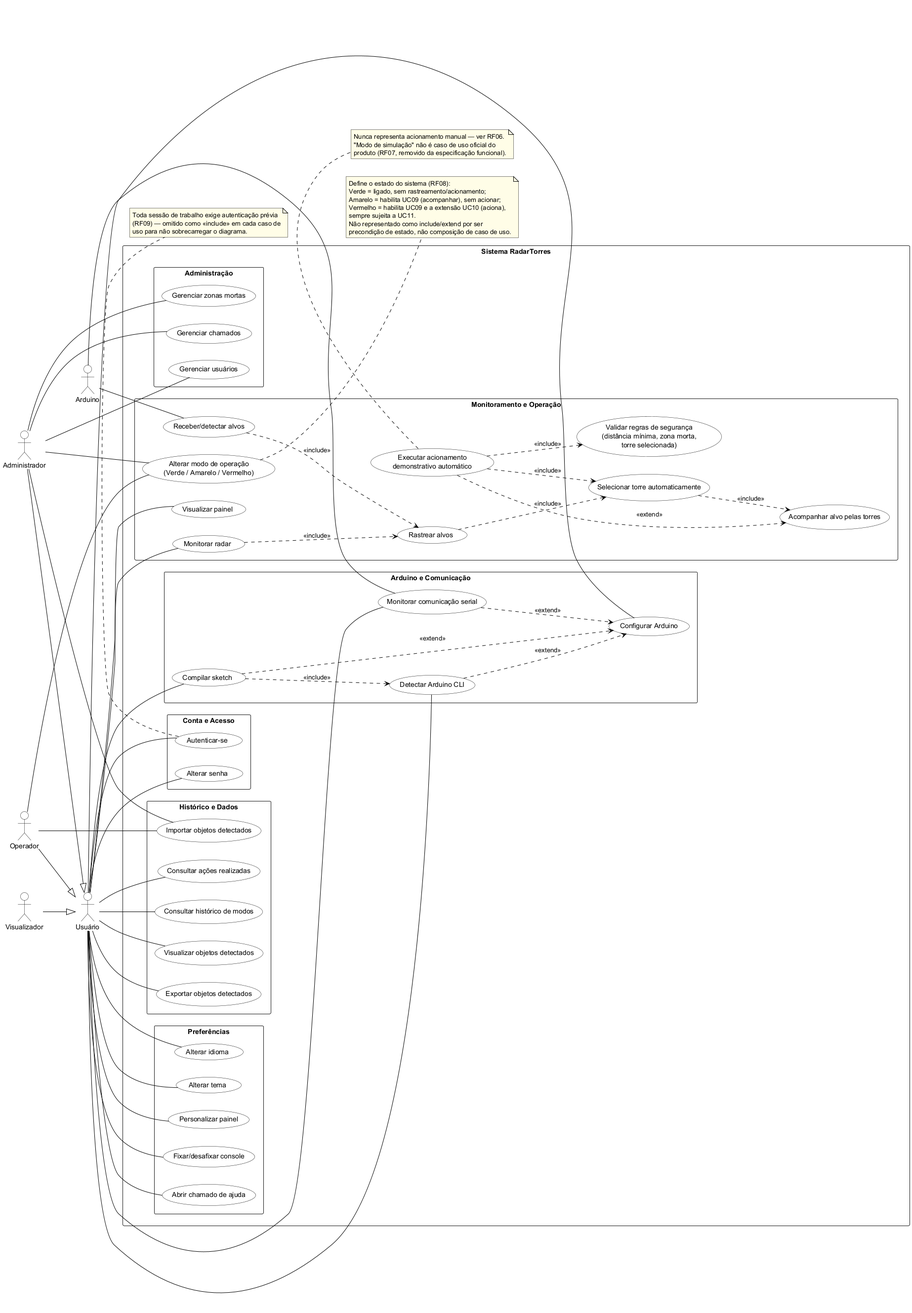
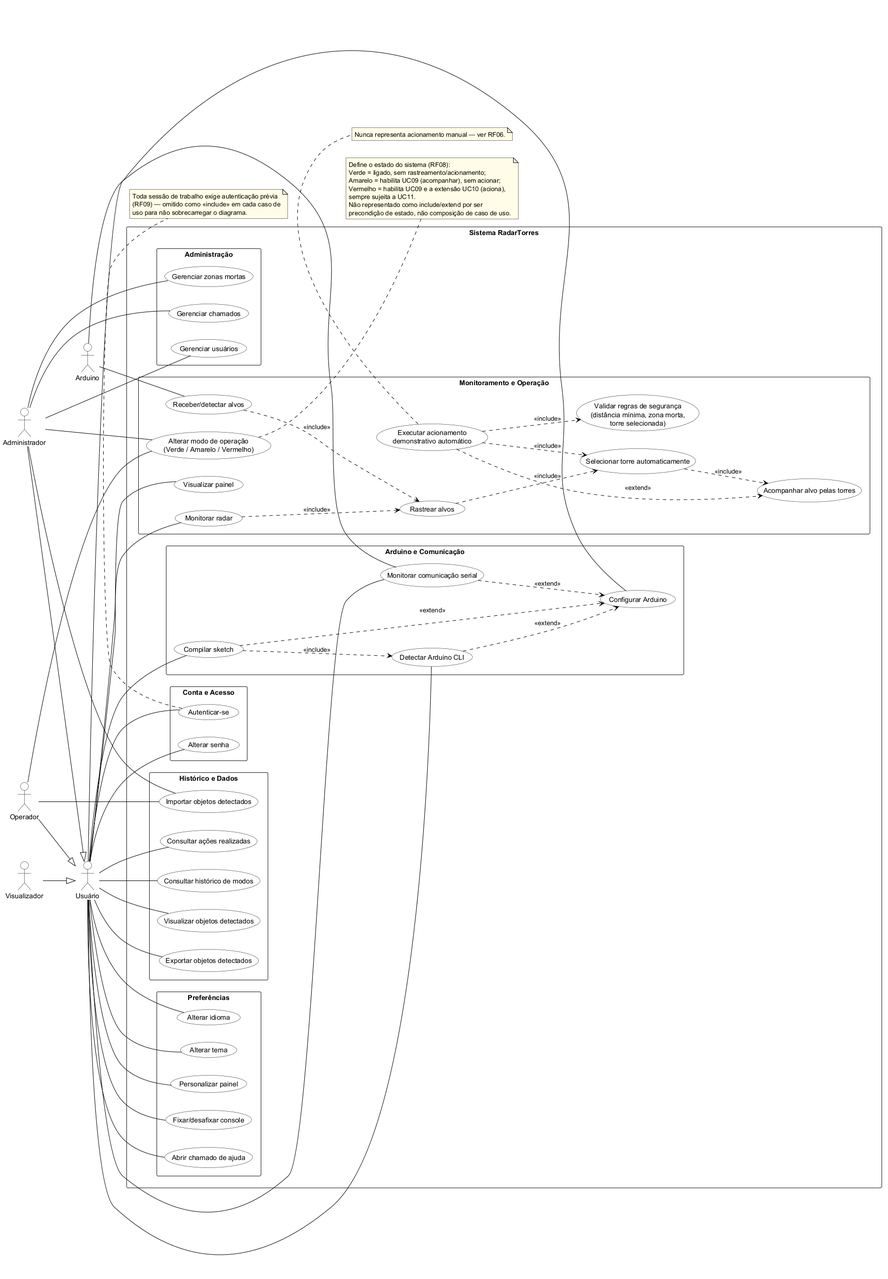
docs: remove o modo de simulação da documentação do TCC
O modo de simulação (SimulationService/ArduinoSimulation.ino) é uma
ferramenta interna de manutenção/teste, não uma funcionalidade do
produto — deixa de ser documentado como tal em requisitos, casos de
uso, diagramas de classes/pacotes/implantação e arquitetura.

diff --git a/Docs/Documentos_Entregaveis/Diagrama_de_Classes/Diagrama_de_Classes.md b/Docs/Documentos_Entregaveis/Diagrama_de_Classes/Diagrama_de_Classes.md
@@ -6,25 +6,10 @@
 > `COMUNICACAO_ARDUINO.md`). Nenhum dado foi inventado; onde a fonte é uma inferência (não uma
 > leitura direta de código), isso está marcado explicitamente.
 
-## 1. Observação sobre o Arduino
+## 1. Principais elementos e responsabilidades
 
-O firmware (`Arduino/ArduinoSimulation.ino`) é escrito em C/C++ estilo Arduino **sem
-orientação a objetos formal** — não há `class`, apenas uma `struct SimulatedTarget` (dados
-puros) e funções globais (`setup`, `loop`, e as funções de leitura/envio de protocolo). Por
-isso, no diagrama de classes ele é representado por:
-
-* uma **estrutura de dados** (`SimulatedTarget`), equivalente a uma classe sem métodos;
-* um **módulo de funções globais** (`ArduinoSimulation`), representado como uma classe
-  estereotipada `<<module>>`, reunindo as funções do sketch como se fossem métodos estáticos —
-  adaptação necessária porque o C/C++ para Arduino não tem classes nesse sketch, mas o
-  conjunto de funções tem responsabilidade coesa (gerar alvos simulados e falar o protocolo
-  serial).
-
-Do lado do aplicativo C#, todas as classes seguem POO plena (interfaces `I*Service`/`I*Repository`
-+ implementação, herança de `INotifyPropertyChanged`, etc.), então são representadas de forma
-convencional.
-
-## 2. Principais elementos e responsabilidades
+Todas as classes do aplicativo C# seguem POO plena (interfaces `I*Service`/`I*Repository` +
+implementação, herança de `INotifyPropertyChanged`, etc.), representadas de forma convencional.
 
 ### Models (entidades de domínio)
 
@@ -32,7 +17,7 @@ convencional.
 |---|---|---|---|
 | `Target` | Alvo detectado, vivo em memória, atualizado a cada leitura pelo mesmo `Id` | `Id`, `Angle`, `Distance`, `X`, `Y`, `Quadrant`, `IsActive`, `IsSelected`, `SelectedTower`, `DistanceToSelectedTower`, `LastUpdate` | Implementa `INotifyPropertyChanged` |
 | `Tower` | Torre demonstrativa carregada de `appsettings.json` | `Id`, `Name`, `X`, `Y`, `PreferredQuadrant`, `State`, `IsAvailable`, `DistanceToTarget` | Implementa `INotifyPropertyChanged` |
-| `SensorReading` | DTO imutável de uma leitura já validada (serial real ou simulada) | `TargetId`, `Angle`, `Distance`, `ReceivedAt`, `Source` | Consumido por `TargetTrackingService.ProcessReading` |
+| `SensorReading` | DTO imutável de uma leitura já validada | `TargetId`, `Angle`, `Distance`, `ReceivedAt`, `Source` | Consumido por `TargetTrackingService.ProcessReading` |
 | `DeadZone` | Zona onde alvos não recebem torre/acionamento | `Id`, `Name`, `Type`, `Quadrant`, `MinDistance`, `MaxDistance`, `Enabled` | Implementa `INotifyPropertyChanged` |
 | `Usuario` | Conta de acesso ao aplicativo | `Id`, `Nome`, `Login`, `SenhaHash`, `SenhaSalt`, `Perfil`, `Ativo`, `DataCriacao`, `UltimoAcesso` | — |
 | `ObjetoDetectado` | Registro histórico (CSV) de uma primeira detecção | `Id`, `Tipo`, `X`, `Y`, `Z?`, `Quadrante`, `DataHora`, `Dispositivo`, `NivelConfianca?`, `Observacao?`, `ReferenciaImagem?` | Gerado a partir do evento `TargetCreated` |
@@ -56,7 +41,6 @@ convencional.
 | `TargetTrackingService` (`ITargetTrackingService`) | Cria/atualiza/expira `Target` a partir de `SensorReading` | `ProcessReading`, `PurgeStaleTargets`, `ClearAll`; eventos `TargetCreated`, `TargetUpdated`, `TargetRemoved` | `QuadrantHelper`, `CoordinateConverter` |
 | `TowerSelectionService` (`ITowerSelectionService`) | Algoritmo de seleção de torre | `SelectTowerFor`, `RecomputeTowerStates` | `DistanceCalculator`, `IDeadZoneService` |
 | `FireControlService` (`IFireControlService`) | Regra de segurança + acionamento demonstrativo | `Authorize`, `TryFireAsync` | `IDeadZoneService` |
-| `SimulationService` (`ISimulationService`) | Gera alvos fictícios | `Start`, `Stop`, `AddRandomTarget`, `RemoveTarget`; evento `ReadingGenerated` | `AppConfig` |
 | `LoggingService` (`ILoggingService`) | Console de eventos thread-safe | `Info`, `Success`, `Warning`, `Error`, `Clear` | — |
 | `AuthService` (`IAuthService`) | Login/logout/sessão | `LoginAsync`, `Logout`, `AlterarSenhaAsync`; evento `SessionChanged` | `IUsuarioRepository`, `IPasswordHasher` |
 | `PasswordHasher` (`IPasswordHasher`) | Hash PBKDF2-HMACSHA256 de senha | (hash/verify) | — |
@@ -91,7 +75,7 @@ Todos os repositórios CSV dependem de `CsvTableStore<T>` (composição) e de `A
 | Classe | Responsabilidade | Depende de (composição/DI) |
 |---|---|---|
 | `ViewModelBase` | Implementa `INotifyPropertyChanged` (`SetProperty`) — base de todas as ViewModels | — |
-| `MainViewModel` | Orquestra a tela de Monitoramento (radar, serial, torres, acionamento) | `ISerialCommunicationService`, `ITargetTrackingService`, `ITowerSelectionService`, `IFireControlService`, `ISimulationService`, `ILoggingService` |
+| `MainViewModel` | Orquestra a tela de Monitoramento (radar, serial, torres, acionamento) | `ISerialCommunicationService`, `ITargetTrackingService`, `ITowerSelectionService`, `IFireControlService`, `ILoggingService` |
 | `ArduinoSettingsViewModel` | Orquestra a aba Configurações do Arduino | `IArduinoCliLocatorService`, `IArduinoCompilerService`, `IArduinoSettingsRepository`, `ISerialCommunicationService` (mesma instância de `MainViewModel`) |
 | `ObjetosDetectadosViewModel` | Lista + exporta/importa `ObjetoDetectado` | `IObjetoDetectadoRepository`, `IObjetoDetectadoExportService`, `ILoggingService`, `IAuthService`, `IPermissionService` |
 | `PainelPrincipalViewModel` | Comando de restaurar layout padrão do painel | (evento consumido pela View) |
@@ -110,14 +94,7 @@ Todos os repositórios CSV dependem de `CsvTableStore<T>` (composição) e de `A
 | `QuadrantHelper` | Determina quadrante Q1-Q4 |
 | `RelayCommand` | Implementação de `ICommand` (MVVM manual) |
 
-### Arduino (`Arduino/ArduinoSimulation.ino`)
-
-| Elemento | Tipo | Equivalente OO | Responsabilidade |
-|---|---|---|---|
-| `SimulatedTarget` | `struct` | Classe de dados (sem métodos) | Guarda `id`, `angle`, `distance` de um alvo fictício |
-| `ArduinoSimulation` (módulo) | Conjunto de funções globais (`setup`, `loop`, geração/envio de `TARGET`, leitura/interpretação de comandos `SYSTEM`/`MODE`/`SET`/`FIRE`) | Classe `<<module>>` (estereótipo, funções estáticas) | Gera alvos simulados e fala o protocolo serial descrito em `COMUNICACAO_ARDUINO.md` |
-
-## 3. Diagrama de Classes (Mermaid)
+## 2. Diagrama de Classes (Mermaid)
 
 ```mermaid
 classDiagram
@@ -243,12 +220,6 @@ classDiagram
         +TryFireAsync(...)
     }
     class FireControlService
-    class ISimulationService {
-        <<interface>>
-        +Start(count)
-        +Stop()
-    }
-    class SimulationService
     class IDeadZoneService {
         <<interface>>
         +FindBlockingZone(Target)
@@ -322,27 +293,11 @@ classDiagram
         +Between()
     }
 
-    %% ===== Arduino (não-OO, representado como módulo) =====
-    class SimulatedTarget {
-        <<struct>>
-        +int id
-        +float angle
-        +float distance
-    }
-    class ArduinoSimulation {
-        <<module>>
-        +setup()
-        +loop()
-        +sendTarget()
-        +handleCommand()
-    }
-
     %% Relacionamentos
     ISerialCommunicationService <|.. SerialCommunicationService
     ITargetTrackingService <|.. TargetTrackingService
     ITowerSelectionService <|.. TowerSelectionService
     IFireControlService <|.. FireControlService
-    ISimulationService <|.. SimulationService
     IDeadZoneService <|.. DeadZoneService
     IAuthService <|.. AuthService
     IPermissionService <|.. PermissionService
@@ -381,7 +336,6 @@ classDiagram
     MainViewModel --> ITargetTrackingService
     MainViewModel --> ITowerSelectionService
     MainViewModel --> IFireControlService
-    MainViewModel --> ISimulationService
     ArduinoSettingsViewModel --> ISerialCommunicationService : mesma instância Singleton
     ObjetosDetectadosViewModel --> IObjetoDetectadoRepository
     ObjetosDetectadosViewModel --> IObjetoDetectadoExportService
@@ -392,11 +346,9 @@ classDiagram
     Usuario "1" --> "*" AcaoRealizada : solicita (manual)
     Usuario "1" --> "*" AlteracaoModo : solicita
     Usuario "1" --> "*" ChamadoAjuda : abre
-
-    ArduinoSimulation ..> SimulatedTarget : gerencia
 ```
 
-## 4. Validação
+## 3. Validação
 
 * Todas as classes/atributos/métodos acima foram lidos diretamente dos arquivos-fonte em
   `src/RadarTorres.App/` — nenhum nome foi inventado.
@@ -404,5 +356,3 @@ classDiagram
   não tiveram a assinatura completa lida (fora do escopo desta varredura); a responsabilidade
   listada é **inferida** do uso descrito em `Docs/Tecnica/ARQUITETURA.md` e do nome da interface —
   marcado na tabela de Services acima.
-* `ArduinoSimulation.ino` não usa classes — a representação como `<<module>>`/`<<struct>>` é uma
-  adaptação explícita, descrita na seção 1.

diff --git a/Docs/Tecnica/COMUNICACAO_ARDUINO.md b/Docs/Tecnica/COMUNICACAO_ARDUINO.md
@@ -102,30 +102,20 @@ evitando handles de porta duplicados. Uma futura evolução natural (ver README,
 "Próximos passos") é adicionar reconexão automática com backoff, usando o campo
 `SerialSettings.ReconnectAttempts` já presente na configuração.
 
-## 7. Testando sem hardware físico
+## 7. Aba "Configurações do Arduino" — compilar o firmware e monitorar a serial pela própria interface
 
-Duas formas:
-
-1. **Modo de simulação interno** (recomendado para desenvolvimento do software): não usa a
-   porta serial, gera leituras diretamente em memória via `SimulationService`.
-2. **`Arduino/ArduinoSimulation.ino`**: grave este sketch em um Arduino real (ou em um
-   emulador serial) para validar a camada de comunicação de ponta a ponta, incluindo a
-   própria porta USB, antes de existir qualquer sensor físico.
-
-## 8. Aba "Configurações do Arduino" — compilar o firmware e monitorar a serial pela própria interface
-
-Além da tela de Monitoramento (seção 1–7 acima), o RadarTorres tem uma aba dedicada na barra
+Além da tela de Monitoramento (seção 1–6 acima), o RadarTorres tem uma aba dedicada na barra
 lateral, **Configurações do Arduino**, para instalar/configurar o [Arduino
 CLI](https://arduino.github.io/arduino-cli/), compilar um sketch `.ino` e acompanhar a saída
 serial em tempo real — sem sair do aplicativo. Implementada em
 `ViewModels/ArduinoSettingsViewModel.cs` + `Views/ArduinoSettingsView.xaml`.
 
-### 8.1 Instalar e configurar o Arduino CLI
+### 7.1 Instalar e configurar o Arduino CLI
 
 O **Arduino CLI não é instalado nem baixado automaticamente pelo RadarTorres** — é uma
 ferramenta externa e opcional, necessária apenas para compilar sketches pela própria
-interface (o app funciona normalmente sem ela, tanto em modo simulação quanto conectado a um
-Arduino já gravado por fora). Para instalá-la:
+interface (o app funciona normalmente sem ela, desde que um Arduino já esteja gravado por
+fora). Para instalá-la:
 
 1. Baixe o instalador/zip em <https://arduino.github.io/arduino-cli/latest/installation/>
    (seção Windows).
@@ -139,7 +129,7 @@ Arduino já gravado por fora). Para instalá-la:
    exibida. Se não for encontrado, uma mensagem explica que o CLI é necessário para compilar e
    como configurá-lo — a aba continua funcional para o monitor serial mesmo sem ele.
 
-### 8.2 Selecionar a placa (FQBN)
+### 7.2 Selecionar a placa (FQBN)
 
 O combo **Placa / FQBN** já vem com um catálogo padrão de placas comuns (Uno, Nano, Mega,
 Leonardo, ESP32 Dev Module, NodeMCU) — disponível mesmo sem o Arduino CLI instalado ou sem
@@ -148,7 +138,7 @@ interface. O botão **Atualizar placas e portas** complementa essa lista com o r
 de `arduino-cli board listall` quando o CLI está disponível (útil se você já instalou cores
 adicionais) e também atualiza a lista de portas COM.
 
-### 8.3 Compilar um sketch
+### 7.3 Compilar um sketch
 
 1. Clique em **Selecionar código .ino…** e escolha o arquivo — por padrão, se
    `Arduino/ArduinoSimulation.ino` estiver disponível (execução a partir do repositório) e
@@ -177,7 +167,7 @@ Esta etapa cobre apenas **compilação**. Gravação/upload do firmware compilad
 (`arduino-cli upload`) não foi implementada — ver `Docs/Projeto/LOG_SOLICITACOES.md` para o
 racional.
 
-### 8.4 Monitor serial da aba Configurações do Arduino
+### 7.4 Monitor serial da aba Configurações do Arduino
 
 A seção **Monitor serial** desta aba usa o **mesmo** `ISerialCommunicationService` (Singleton
 via injeção de dependência) já usado pela tela de Monitoramento — não existe uma segunda
@@ -199,7 +189,7 @@ automática), com um contador de mensagens recebidas e um limite de 4000 linhas 
 antigas são descartadas automaticamente para não crescer a memória indefinidamente em sessões
 longas. O console de compilação segue o mesmo limite.
 
-### 8.5 Onde as preferências desta aba são salvas
+### 7.5 Onde as preferências desta aba são salvas
 
 Caminho do Arduino CLI, último sketch usado, FQBN selecionado, última porta COM, baud rate e
 preferências do console (rolagem automática, exibir horário) são persistidos em

diff --git a/Docs/Projeto/CONTEXTO_PROJETO.md b/Docs/Projeto/CONTEXTO_PROJETO.md
@@ -23,10 +23,8 @@ detecção de alvos ao redor de uma base. Ele:
    dividido em 4 quadrantes.
 3. Seleciona automaticamente, entre um conjunto configurável de torres demonstrativas
    posicionadas ao redor da base, qual está mais próxima/adequada para cada alvo.
-4. Permite um modo de acionamento **demonstrativo** (laser de baixa potência / LED /
-   simulação — **nunca armamento real**), respeitando uma distância mínima de segurança.
-5. Funciona de ponta a ponta mesmo **sem Arduino conectado**, via modo de simulação embutido
-   (essencial para desenvolvimento e demonstrações do TCC).
+4. Permite um modo de acionamento **demonstrativo** (laser de baixa potência / LED —
+   **nunca armamento real**), respeitando uma distância mínima de segurança.
 
 Repositório: `Matheus-Emanoel-Souza/Sistema_Rastreamento_Alvos_Arduino` (GitHub).
 
@@ -46,7 +44,6 @@ Repositório: `Matheus-Emanoel-Souza/Sistema_Rastreamento_Alvos_Arduino` (GitHub
 | Injeção de dependência | `Microsoft.Extensions.DependencyInjection`, composition root em `App.xaml.cs` | — |
 | Persistência | **CSV** (`%AppData%\RadarTorres\Data\*.csv`) | Decisão explícita do usuário: por ora CSV, sinalizado (`TODO(SQL)`) para futura migração a banco relacional (SQLite/EF Core) sem alterar ViewModels/Services — cada tabela já tem uma interface de repositório dedicada |
 | Empacotamento | Inno Setup 6 (`installer/RadarTorres.iss`) | Instalador `Setup.exe`, self-contained (embute o .NET 9 Desktop Runtime — usuário final não precisa instalar nada) |
-| Firmware de teste | Arduino (`Arduino/ArduinoSimulation.ino`) | Sem sensores reais, só para desenvolvimento |
 
 ### 2.2 Arquitetura (camadas)
 
@@ -59,20 +56,20 @@ Views (WPF/XAML)  <-->  ViewModels (MainViewModel, ...)  <-->  Services (regras 
 - **Views**: só XAML + pequenos encaminhamentos de eventos de UI.
 - **ViewModels**: orquestram serviços, sem regra de negócio própria.
 - **Services**: 100% da lógica (protocolo serial, rastreamento, seleção de torre,
-  acionamento, simulação, auth, permissões, i18n, tema, layout do painel). Nenhum referencia
+  acionamento, auth, permissões, i18n, tema, layout do painel). Nenhum referencia
   WPF diretamente — interfaces `I*Service` permitem trocar implementação (ex.: testes).
 - **Models**: entidades simples com `INotifyPropertyChanged`.
 
 ### 2.3 Concorrência
 
 Leitura serial roda em `Task.Run` dedicado; timers (`System.Threading.Timer` /
-`DispatcherTimer`) cuidam de watchdog de conexão, simulação e expiração de alvos. Regra geral:
+`DispatcherTimer`) cuidam de watchdog de conexão e expiração de alvos. Regra geral:
 qualquer classe com coleção/evento vinculado à UI é responsável por despachar para o
 `Dispatcher` internamente (captura o Dispatcher no construtor).
 
 ### 2.4 Como o app evoluiu (linha do tempo funcional)
 
-1. **Base inicial**: app único (`MainWindow`), lógica de radar/serial/torres/simulação.
+1. **Base inicial**: app único (`MainWindow`), lógica de radar/serial/torres.
 2. **Instalador Windows**: `Setup.exe` (Inno Setup, self-contained), launcher avulso, ícone,
    tratamento global de erros de inicialização.
 3. **Fundação multiusuário** (Etapa 1, parte A): login, 3 perfis (Administrador/Operador/
@@ -119,8 +116,8 @@ qualquer classe com coleção/evento vinculado à UI é responsável por despach
 
 ## 3. Estado atual (o que já funciona)
 
-- Radar em tempo real, seleção automática de torre, modo de acionamento demonstrativo, modo
-  de simulação sem hardware — funcionalidade original, validada.
+- Radar em tempo real, seleção automática de torre, modo de acionamento demonstrativo —
+  funcionalidade original, validada.
 - Login multiusuário, 3 perfis, troca de senha, auditoria de ações/modos/detecções gravada em
   CSV.
 - Internacionalização (pt-BR/en-US) e tema (claro/escuro/sistema) trocáveis em runtime.

diff --git a/Docs/Tecnica/DOCUMENTACAO_TECNICA.md b/Docs/Tecnica/DOCUMENTACAO_TECNICA.md
@@ -29,10 +29,8 @@ configuração, a partir da própria posição da torre. **Quem usa:** `TowerSel
 
 ### `SensorReading` (`Models/SensorReading.cs`)
 **Função:** DTO imutável que representa uma leitura já validada, mas ainda não associada a um
-`Target`. **Por que existe:** para que `TargetTrackingService` não precise saber se a leitura
-veio da serial real ou do simulador — ambos produzem `SensorReading`. **Quem usa:**
-`MainViewModel` cria a partir de `TargetMessage` (serial) ou recebe pronto do
-`SimulationService`; `TargetTrackingService.ProcessReading` consome.
+`Target`. **Quem usa:** `MainViewModel` cria a partir de `TargetMessage` (serial);
+`TargetTrackingService.ProcessReading` consome.
 
 ### `SystemState.cs`
 **Função:** agrupa os enums de estado do sistema: `SystemMode`, `ConnectionState`, `TowerState`,
@@ -84,7 +82,7 @@ resolução de tela (ver `Docs/Tecnica/ARQUITETURA.md`, seção 5.2). **Quem usa
 todo o código; qualquer classe que precise de um valor configurável (baud rate, distância
 mínima, torres, timeouts) lê de `AppConfig.Current`. **Quem usa:** praticamente todos os
 serviços (`SerialCommunicationService`, `TargetTrackingService`, `TowerSelectionService`,
-`SimulationService`, `MainViewModel`).
+`MainViewModel`).
 
 ### `ArduinoCliSettings` (`Configuration/ArduinoCliSettings.cs`)
 **Função:** modelo das preferências da aba Configurações do Arduino (caminho do CLI, último
@@ -161,17 +159,11 @@ automatizados futuros. **Métodos principais:** `SelectTowerFor(Target)`,
 `RecomputeTowerStates(IEnumerable<Target>)`. **Quem usa:** `MainViewModel`.
 
 ### `FireControlService` (`IFireControlService`)
-**Função:** aplica a regra de segurança (distância mínima) e executa/simula o acionamento
+**Função:** aplica a regra de segurança (distância mínima) e executa o acionamento
 demonstrativo. **Por que existe:** concentra em um único lugar a decisão "pode ou não pode
 acionar", que é a parte mais sensível do sistema — nenhum outro componente decide isso.
 **Métodos principais:** `Authorize(Target, minDistance)`, `TryFireAsync(Target, serial?,
 simulationMode, minDistance)`. **Quem usa:** `MainViewModel` (acionamento manual e automático).
-
-### `SimulationService` (`ISimulationService`)
-**Função:** gera e movimenta alvos fictícios, produzindo o mesmo DTO (`SensorReading`) que a
-leitura real. **Por que existe:** permitir desenvolvimento e demonstração completos sem
-hardware. **Métodos principais:** `Start(count?)`, `Stop()`, `AddRandomTarget()`,
-`RemoveTarget(id)`. **Evento:** `ReadingGenerated`. **Quem usa:** `MainViewModel`.
 
 ### `LoggingService` (`ILoggingService`)
 **Função:** console de eventos com timestamp, thread-safe, consumido por toda a aplicação.

diff --git a/Docs/Projeto/ETAPA1_FUNDACAO.md b/Docs/Projeto/ETAPA1_FUNDACAO.md
@@ -58,7 +58,7 @@ Mais de 50 arquivos novos. Os grupos principais:
   - bloqueia ações (`ManualFireCommand`, troca de modo) para o perfil Visualizador.
 - **`Views/MainWindow.xaml(.cs)` → removidos**, substituídos por `Views/MonitoramentoView.xaml(.cs)` (mesmo conteúdo, hospedado pela Shell).
 
-Nenhuma lógica de detecção, rastreamento, seleção de torre, protocolo serial ou simulação foi
+Nenhuma lógica de detecção, rastreamento, seleção de torre ou protocolo serial foi
 alterada — só os pontos de gancho para auditoria/permissão, todos aditivos.
 
 ## 5. Como validar cada funcionalidade
@@ -74,9 +74,9 @@ avisos confirmado) e rodar `RadarTorres.App.exe`.
 | Alteração de senha | Perfil > preencher senha atual + nova + confirmar > mensagem de sucesso/erro clara. |
 | Barra lateral | Clique no ☰ recolhe/expande (texto vira tooltip). Itens navegam para a tela correspondente; item ativo fica destacado. "Usuários" só aparece para Administrador. |
 | Painel principal | Cards de objetos detectados, ações realizadas, modo atual, última alteração de modo, usuário responsável, estado da comunicação e última atualização — todos com dado real (ou "—"/contagem 0 quando não há histórico ainda). |
-| Monitoramento | Idêntico ao app anterior (radar, conexão serial, modos, simulação) — agora dentro da Shell. Visualizador vê aviso "não permite executar ações" e os botões ficam bloqueados. |
+| Monitoramento | Idêntico ao app anterior (radar, conexão serial, modos) — agora dentro da Shell. Visualizador vê aviso "não permite executar ações" e os botões ficam bloqueados. |
 | Auditoria de modo | Trocar o modo pede confirmação; aceitar ou cancelar grava uma linha em `alteracoes_modo.csv` (`Resultado=Sucesso` ou `Erro`). |
-| Auditoria de objetos | Ativar o modo de simulação gera alvos; a primeira detecção de cada um grava uma linha em `objetos_detectados.csv`. |
+| Auditoria de objetos | A primeira detecção de cada alvo grava uma linha em `objetos_detectados.csv`. |
 | Auditoria de ações | "Acionamento manual demonstrativo" (ou automático, no modo 4) grava uma linha em `acoes_realizadas.csv`, incluindo bloqueios de segurança (`Resultado=Cancelada`). |
 | Formulário de ajuda | Botão "Ajuda" abre o formulário; enviar sem título/descrição mostra erro de validação; enviar com dados grava em `chamados_ajuda.csv` com usuário e data preenchidos automaticamente. |
 | Logout | Botão "Sair" volta para a tela de login sem fechar o processo; logar de novo funciona. |

diff --git a/Docs/Documentos_Entregaveis/UML/Diagrama_de_Pacotes.md b/Docs/Documentos_Entregaveis/UML/Diagrama_de_Pacotes.md
@@ -11,7 +11,7 @@
 | `RadarTorres.App.Models` | `src/RadarTorres.App/Models/` | Entidades de domínio e enums compartilhados | `Target`, `Tower`, `SensorReading`, `Usuario`, `ObjetoDetectado`, `AcaoRealizada`, `AlteracaoModo`, `DeadZone`, `PreferenciasUsuario`, `ChamadoAjuda`, `SystemState`, `DashboardCardLayout` |
 | `RadarTorres.App.Configuration` | `src/RadarTorres.App/Configuration/` | Modelo tipado de `appsettings.json` e preferências de ferramenta externa | `AppSettings`, `AppConfig`, `ArduinoCliSettings` |
 | `RadarTorres.App.Helpers` | `src/RadarTorres.App/Helpers/` | Funções puras de apoio (matemática, comando MVVM) | `CoordinateConverter`, `DistanceCalculator`, `QuadrantHelper`, `RelayCommand` |
-| `RadarTorres.App.Services` | `src/RadarTorres.App/Services/` | Toda a regra de negócio (protocolo serial, rastreamento, seleção de torre, acionamento, simulação, autenticação, permissões, exportação, i18n, tema) | `SerialCommunicationService`, `TargetTrackingService`, `TowerSelectionService`, `FireControlService`, `SimulationService`, `AuthService`, `PermissionService`, `ObjetoDetectadoExportService`, entre outros |
+| `RadarTorres.App.Services` | `src/RadarTorres.App/Services/` | Toda a regra de negócio (protocolo serial, rastreamento, seleção de torre, acionamento, autenticação, permissões, exportação, i18n, tema) | `SerialCommunicationService`, `TargetTrackingService`, `TowerSelectionService`, `FireControlService`, `AuthService`, `PermissionService`, `ObjetoDetectadoExportService`, entre outros |
 | `RadarTorres.App.Repositories` | `src/RadarTorres.App/Repositories/` | Persistência CSV, uma interface + implementação por entidade auditável/cadastral | `IUsuarioRepository`/`CsvUsuarioRepository`, `IObjetoDetectadoRepository`/`CsvObjetoDetectadoRepository`, etc. |
 | `RadarTorres.App.Data` | `src/RadarTorres.App/Data/` | Motor genérico de CSV e caminhos de dados do usuário | `CsvTableStore<T>`, `CsvColumn<T>`, `CsvConvert`, `AppDataPaths`, `DataSeeder` |
 | `RadarTorres.App.ViewModels` | `src/RadarTorres.App/ViewModels/` | Orquestração MVVM — ponte entre Views e Services, sem regra de negócio própria | `ViewModelBase`, `MainViewModel`, `ArduinoSettingsViewModel`, `ObjetosDetectadosViewModel`, `LoginViewModel`, `ShellViewModel` |

diff --git a/Docs/Tecnica/ARQUITETURA.md b/Docs/Tecnica/ARQUITETURA.md
@@ -12,7 +12,7 @@ flowchart LR
         direction TB
         VIEW["Views\nMainWindow, RadarControl"]
         VM["ViewModels\nMainViewModel"]
-        SVC["Services\nSerial, Tracking, TowerSelection,\nFireControl, Simulation, Logging"]
+        SVC["Services\nSerial, Tracking, TowerSelection,\nFireControl, Logging"]
         MDL["Models\nTarget, Tower, SensorReading, LogEntry"]
         CFG["Configuration\nAppSettings (appsettings.json)"]
     end
@@ -30,7 +30,7 @@ flowchart LR
 * **ViewModels** (`MainViewModel`) orquestram os serviços — decidem *quando* chamar cada
   serviço em resposta a eventos, mas não implementam nenhuma regra de negócio.
 * **Services** concentram toda a lógica: protocolo serial, rastreamento de alvos, seleção de
-  torres, controle de acionamento e simulação. São interfaces (`I*Service`) + implementação,
+  torres e controle de acionamento. São interfaces (`I*Service`) + implementação,
   o que permite trocar qualquer um deles (ex.: por um dublê de teste) sem tocar na UI.
 * **Models** são entidades de domínio simples, com `INotifyPropertyChanged` para permitir que
   a UI reaja a mudanças de estado sem que a ViewModel precise "empurrar" cada atualização

diff --git a/Docs/Documentos_Entregaveis/UML/UML_RadarTorres.md b/Docs/Documentos_Entregaveis/UML/UML_RadarTorres.md
@@ -189,7 +189,7 @@ responsável pela leitura dos sensores e pelo acionamento das torres demonstrati
 entre os dois nós ocorre exclusivamente por **USB/serial**, no protocolo textual documentado em
 `Docs/Tecnica/COMUNICACAO_ARDUINO.md`: o computador envia comandos (configuração, acionamento) e o
 Arduino envia leituras de alvo. Sensores de detecção alimentam o Arduino, e as torres/indicadores
-demonstrativos (laser de baixa potência, LED ou simulação — nunca armamento real) são acionados
+demonstrativos (laser de baixa potência ou LED — nunca armamento real) são acionados
 pelo Arduino a partir do comando recebido do computador. Não há nenhum componente de servidor,
 web ou nuvem nessa topologia — deliberadamente, para não representar infraestrutura que o
 RadarTorres não possui.

diff --git a/Docs/Documentos_Entregaveis/UML/Casos_de_Uso.md b/Docs/Documentos_Entregaveis/UML/Casos_de_Uso.md
@@ -205,8 +205,8 @@ Vermelho, ver UC10).
 
 ### UC10 — Executar acionamento demonstrativo automático
 
-**Objetivo:** realizar automaticamente o acionamento demonstrativo (laser de baixa potência,
-LED ou simulação — nunca armamento real) sobre um alvo, exclusivamente no modo Vermelho.
+**Objetivo:** realizar automaticamente o acionamento demonstrativo (laser de baixa potência ou
+LED — nunca armamento real) sobre um alvo, exclusivamente no modo Vermelho.
 **Atores:** nenhum ator direto — é uma extensão (`<<extend>>`) de UC09, condicionada ao modo
 Vermelho; inclui (`<<include>>`) UC07 (precisa de torre selecionada) e UC11 (precisa passar na
 validação de segurança).
